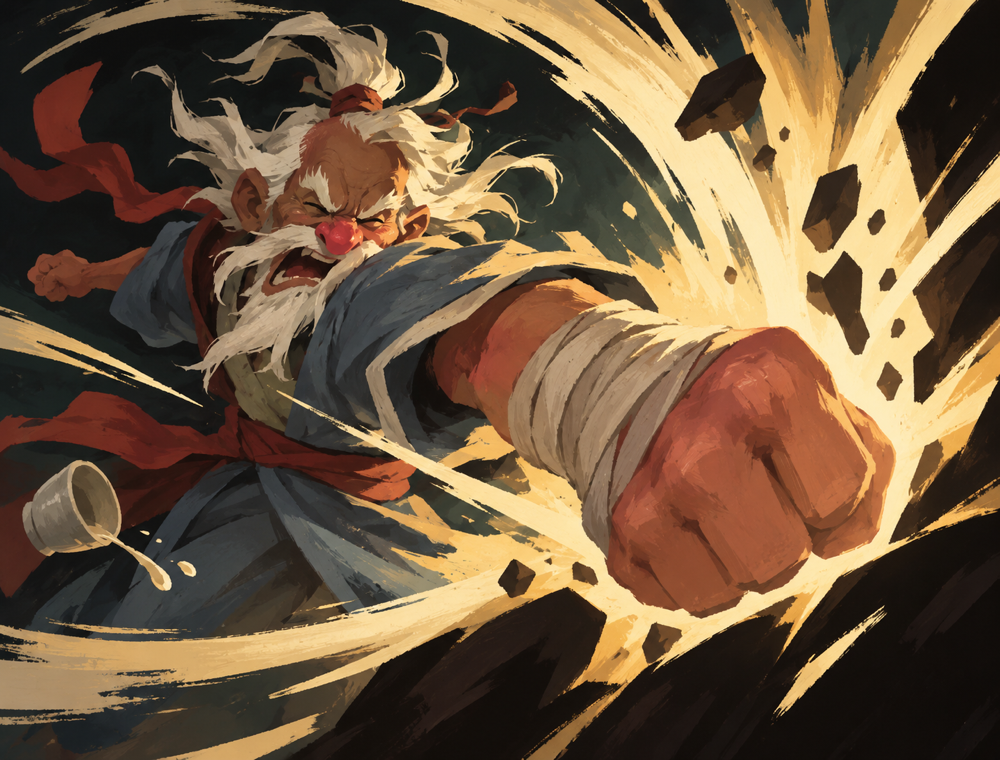
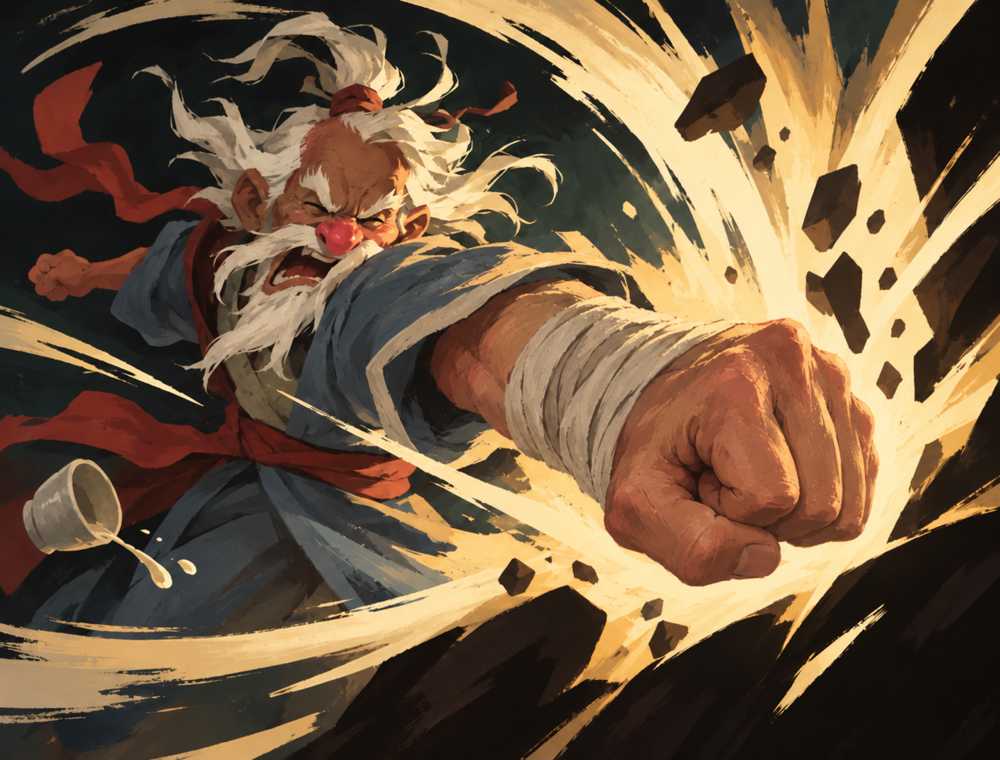
Regenerate the Last Round portrait with a correct fist

diff --git a/DrunkenMaster/DEV_NOTES.md b/DrunkenMaster/DEV_NOTES.md
@@ -122,7 +122,7 @@ sips -s format png -z 190 250  src.png --out DrunkenMaster/images/card_portraits
 
 Then `dotnet publish`. The `.import` sidecars are generated by MegaDot during publish.
 Added 2026-09-13: leftovers, distill, pick_me_up, restock, slip_a_mickey, empties, molotov, shot_glass, sour_punch, stockpot, knock_one_back, mash, nightcap, scrape_the_barrel, stir_the_pot, wake_up_call. 2026-09-13 pm (cardart4): boilermaker, bouncer, dutch_courage, last_round, lights_out. 2026-09-13 evening (loose files in Downloads): salt_the_rim, karaoke_night, upper_deckie (card was still called Zyn at the time), jungle_juice, beer_muscles, line_em_up, open_bar, staggering_blow. Later that evening: numb, cheap_shot, then a 10-image ChatGPT batch (unnamed files, identified by eye, in prompt order): corkscrew, spiked_drink, double_vision, spin_the_bottle, pregame, tolerance, blow_smoke, order_up, soda_gun, water_it_down. Then stir_crazy and top_shelf. 2026-09-15 16:10 ChatGPT batch (10 files in prompt order, identified by eye): sober_strike, bar_brawl, broken_bottle, bottoms_up, the_spins, walk_it_off, bender, pickled, rude_awakening, vertigo. **Every card now has art.** 2026-09-16: strike_drunken_master, defend_drunken_master (loose ChatGPT files in Downloads, 10:35 = Strike, 10:38 = Defend), replacing the Ironclad placeholders. Top Shelf is the Ancient card: Ancient cards use the full-art slot (`NCard._ancientPortrait` with the ancient border and a text panel over the bottom third), so its files are 606x852 / 250x350 instead of 1000x760 / 250x190. Newer enemy-facing art is drawn enemy-free (no monster references needed).
-2026-09-16 pm (ChatGPT batch, 1448x1086 sources, identified by eye; user changed the prompts a bit): easy_mark, shots_fired, dizzy_spell, contact_buzz, breakfast_beer, plus the contact_buzz_power / easy_mark_power icons (64 / 256) from 1254x1254 transparent sources. Every card and power has art again.
+2026-09-16 pm (ChatGPT batch, 1448x1086 sources, identified by eye; user changed the prompts a bit): easy_mark, shots_fired, dizzy_spell, contact_buzz, breakfast_beer, plus the contact_buzz_power / easy_mark_power icons (64 / 256) from 1254x1254 transparent sources. Every card and power has art again. 2026-09-18: last_round regenerated (the original fist had the thumb on the wrong side); the source was a ChatGPT download with the default name, matched by eye.
 
 ## Steam Workshop (set up 2026-09-16)
 
